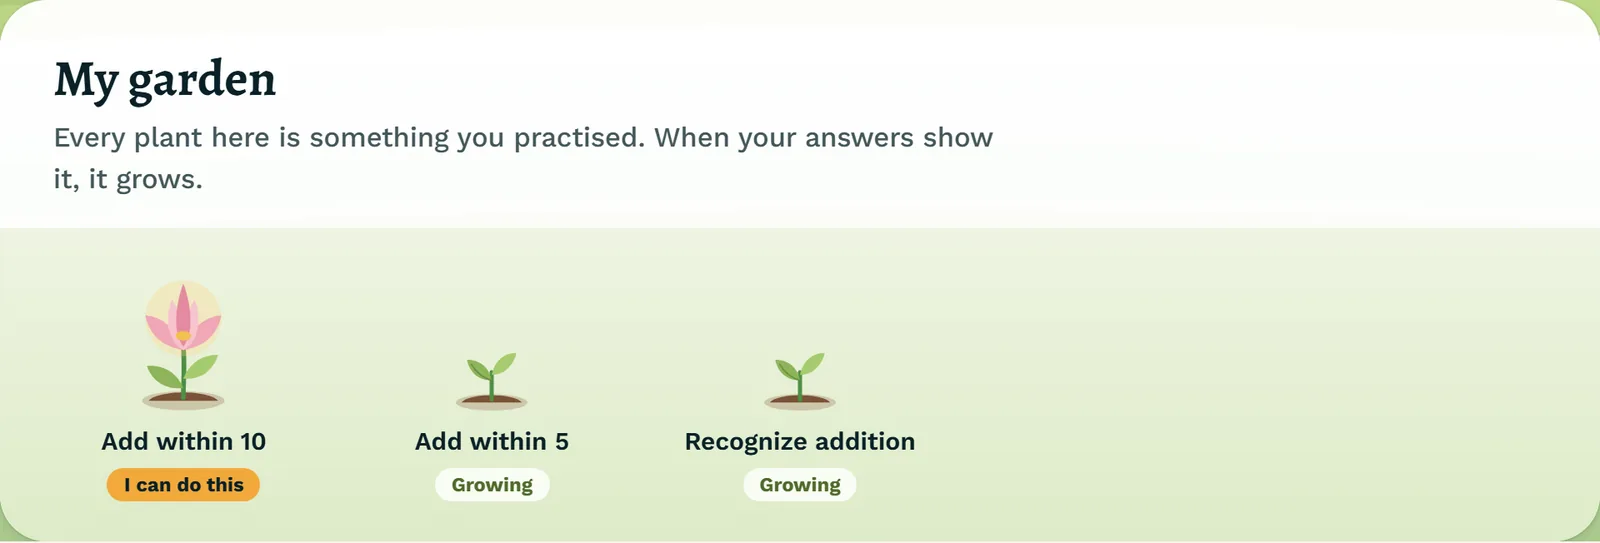
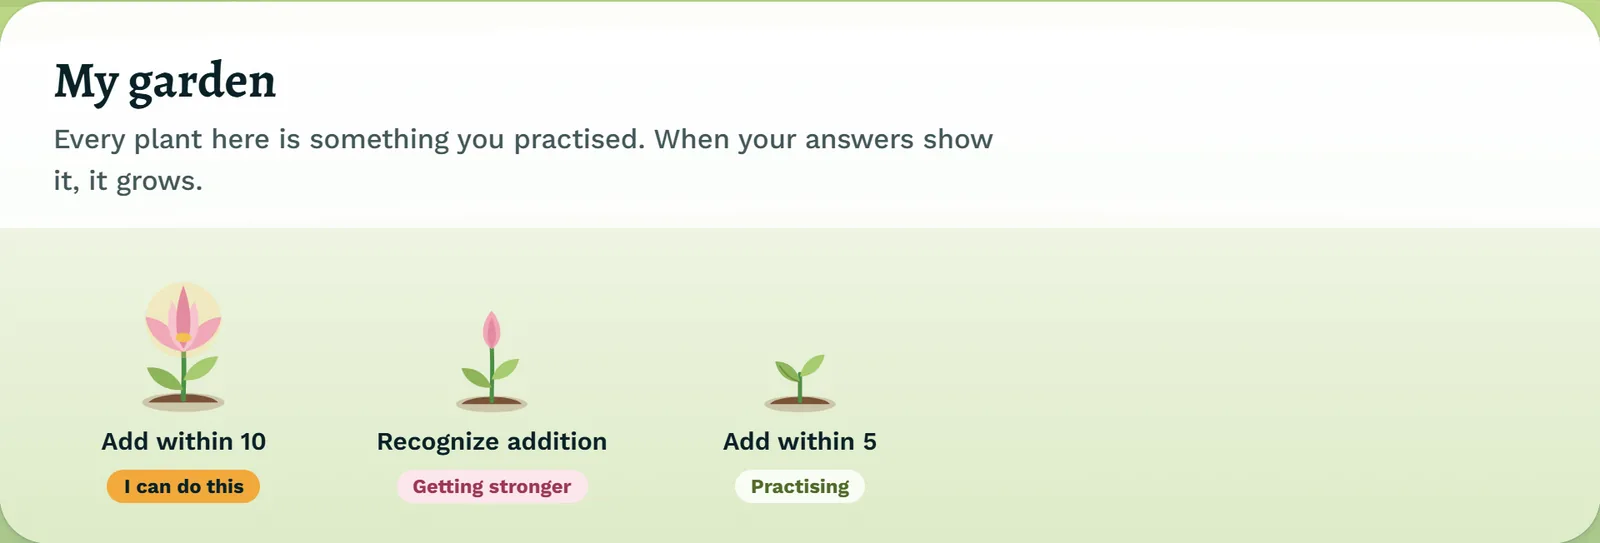
feat(landing): the garden screenshot with today's labels - in bloom, getting stronger, practising (Y41)

diff --git a/frontend/src/features/marketing/trust.messages.ts b/frontend/src/features/marketing/trust.messages.ts
@@ -17,7 +17,7 @@ export const trustMessages = defineMessages(
         b: "No points, coins or streaks to chase",
         c: "The same evidence you see as a parent",
       },
-      shot: "A child's garden in the product: one skill in bloom, two still growing.",
+      shot: "A child's garden in the product: one skill in bloom, one getting stronger, one being practised.",
       caption: "From the product, with sample data.",
     },
     proof: {
@@ -97,7 +97,7 @@ export const trustMessages = defineMessages(
         b: "គ្មានពិន្ទុ កាក់ ឬការប្រកួតរាប់ថ្ងៃដែលត្រូវដេញតាម",
         c: "ភស្តុតាងដូចគ្នាដែលអ្នកឃើញក្នុងនាមជាឪពុកម្ដាយ",
       },
-      shot: "សួនរបស់កុមារម្នាក់នៅក្នុងផលិតផល៖ ជំនាញមួយកំពុងរីកផ្កា និងពីរកំពុងលូតលាស់។",
+      shot: "សួនរបស់កុមារម្នាក់នៅក្នុងផលិតផល៖ ជំនាញមួយកំពុងរីកផ្កា មួយកាន់តែខ្លាំងឡើង និងមួយកំពុងហាត់។",
       caption: "ពីផលិតផល ជាមួយទិន្នន័យគំរូ។",
     },
     proof: {
